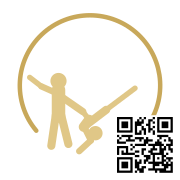
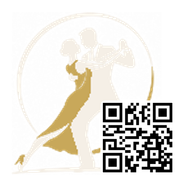
feat: nuevo isotipo con ilustracion real de pareja de tango + ajustes de copy
Reemplaza el isotipo vectorial (pictograma) por una ilustracion real de
una pareja bailando tango en pose de gancho/dip, recoloreada para las
dos variantes de marca (crema/dorado sobre fondo oscuro, navy/bordo
sobre claro), con el QR real (blanco y negro) integrado como badge.
Suma el lema "La excelencia del tango argentino" en el lockup con
texto -- se agrega un prop `tagline` a <Logo> para poder omitirlo en
el hero (que ya tiene su propio texto). Fade de entrada suave para el
logo en cualquier lugar donde se monte.

Ajustes de copy:
- hero.eyebrow -> "Los mejores espectaculos de tango de Buenos Aires"
- hero.cta_primary: "Ver experiencias" -> "Ver servicios"
- Reordena el slide del hero para que la foto de Tango Porteno sea la
  primera (resto del orden de casas sin tocar).

diff --git a/apps/web/src/pages/Home.tsx b/apps/web/src/pages/Home.tsx
@@ -88,8 +88,15 @@ export default function Home() {
         if (cancelled) return;
         setHouses(rows);
         setFeatured(rows.slice(0, 9));
+        // El slide del hero arranca con Tango Porteño primero (pedido puntual) — el
+        // resto del orden (listado de casas, destacadas) no se toca.
+        const heroOrder = [...rows].sort((a, b) => {
+          if (a.slug === 'tango-porteno') return -1;
+          if (b.slug === 'tango-porteno') return 1;
+          return 0;
+        });
         setHeroImages(
-          rows.map((r) => r.hero_image).filter((u): u is string => !!u).slice(0, 5),
+          heroOrder.map((r) => r.hero_image).filter((u): u is string => !!u).slice(0, 5),
         );
       })
       .catch(() => { /* silencioso en home; lo verán en /shows */ });
@@ -125,7 +132,7 @@ export default function Home() {
         />
         <div className="relative container-narrow pt-4 sm:pt-6 pb-16 md:pb-24 min-h-0 md:min-h-[85vh] flex flex-col items-center justify-center text-center">
           <RefBadge />
-          <Logo className="mt-1 sm:mt-2 h-12 sm:h-14 md:h-16 w-auto" />
+          <Logo tagline={false} className="mt-1 sm:mt-2 h-10 sm:h-12 md:h-14 w-auto" />
           <p className="mt-1.5 sm:mt-3 text-xs uppercase tracking-[0.3em] text-gold-soft">
             {t('hero.eyebrow')}
           </p>

diff --git a/apps/web/src/components/Logo.tsx b/apps/web/src/components/Logo.tsx
@@ -3,20 +3,28 @@ type LogoProps = {
   variant?: 'light' | 'color';
   /** Clases de tamaño/posición (ej. "h-12 w-auto"). */
   className?: string;
+  /** false = versión sin el lema "El mejor tango de Buenos Aires" (ej. hero, donde ya hay lugar de sobra para texto propio). */
+  tagline?: boolean;
+};
+
+const SIZES = {
+  withTagline: { light: '/logo-light.png', color: '/logo.png', width: 2665 },
+  noTagline: { light: '/logo-light-notagline.png', color: '/logo-notagline.png', width: 1520 },
 };
 
 /**
- * Logo de marca Tangos & Milongas Tickets.
+ * Logo de marca Tango QR.
  * Usa la versión clara sobre fondos oscuros (default) y la a color sobre claros.
  */
-export default function Logo({ variant = 'light', className = 'h-12 w-auto' }: LogoProps) {
-  const src = variant === 'light' ? '/logo-light.png' : '/logo.png';
+export default function Logo({ variant = 'light', className = 'h-12 w-auto', tagline = true }: LogoProps) {
+  const set = tagline ? SIZES.withTagline : SIZES.noTagline;
+  const src = variant === 'light' ? set.light : set.color;
   return (
     <img
       src={src}
       alt="Tango QR"
-      className={className}
-      width={1324}
+      className={`animate-logo-fade ${className}`}
+      width={set.width}
       height={614}
     />
   );

diff --git a/apps/web/src/index.css b/apps/web/src/index.css
@@ -109,12 +109,25 @@
     animation: sheet-up-in 0.25s ease-out;
   }
 
+  /* Logo: fade suave al aparecer (header, hero, footer, portales — donde sea
+     que se monte). Solo opacity, sin transform: es una imagen sin descendientes,
+     no hay riesgo de romper el scroll de nada anidado (ver animate-page-enter),
+     pero total no hace falta el transform para que se sienta bien. */
+  @keyframes logo-fade-in {
+    from { opacity: 0; }
+    to { opacity: 1; }
+  }
+  .animate-logo-fade {
+    animation: logo-fade-in 0.7s ease-out;
+  }
+
   @media (prefers-reduced-motion: reduce) {
     .animate-page-enter,
     .animate-modal-backdrop,
     .animate-modal-panel,
     .animate-toast-in,
-    .animate-sheet-up {
+    .animate-sheet-up,
+    .animate-logo-fade {
       animation: none;
     }
   }

diff --git a/apps/web/src/components/Navbar.tsx b/apps/web/src/components/Navbar.tsx
@@ -17,7 +17,7 @@ export default function Navbar() {
     <header className="sticky top-0 z-30 backdrop-blur bg-ink/70 border-b border-gold/10">
       <div className="container-narrow flex items-center justify-between h-16">
         <Link to="/" aria-label="Tango QR" className="flex items-center">
-          <Logo className="h-11 w-auto" />
+          <Logo className="h-14 w-auto" />
         </Link>
         <nav className="hidden md:flex items-center gap-8 text-sm">
           <Link to="/shows" className="hover:text-gold transition">{t('nav.shows')}</Link>
